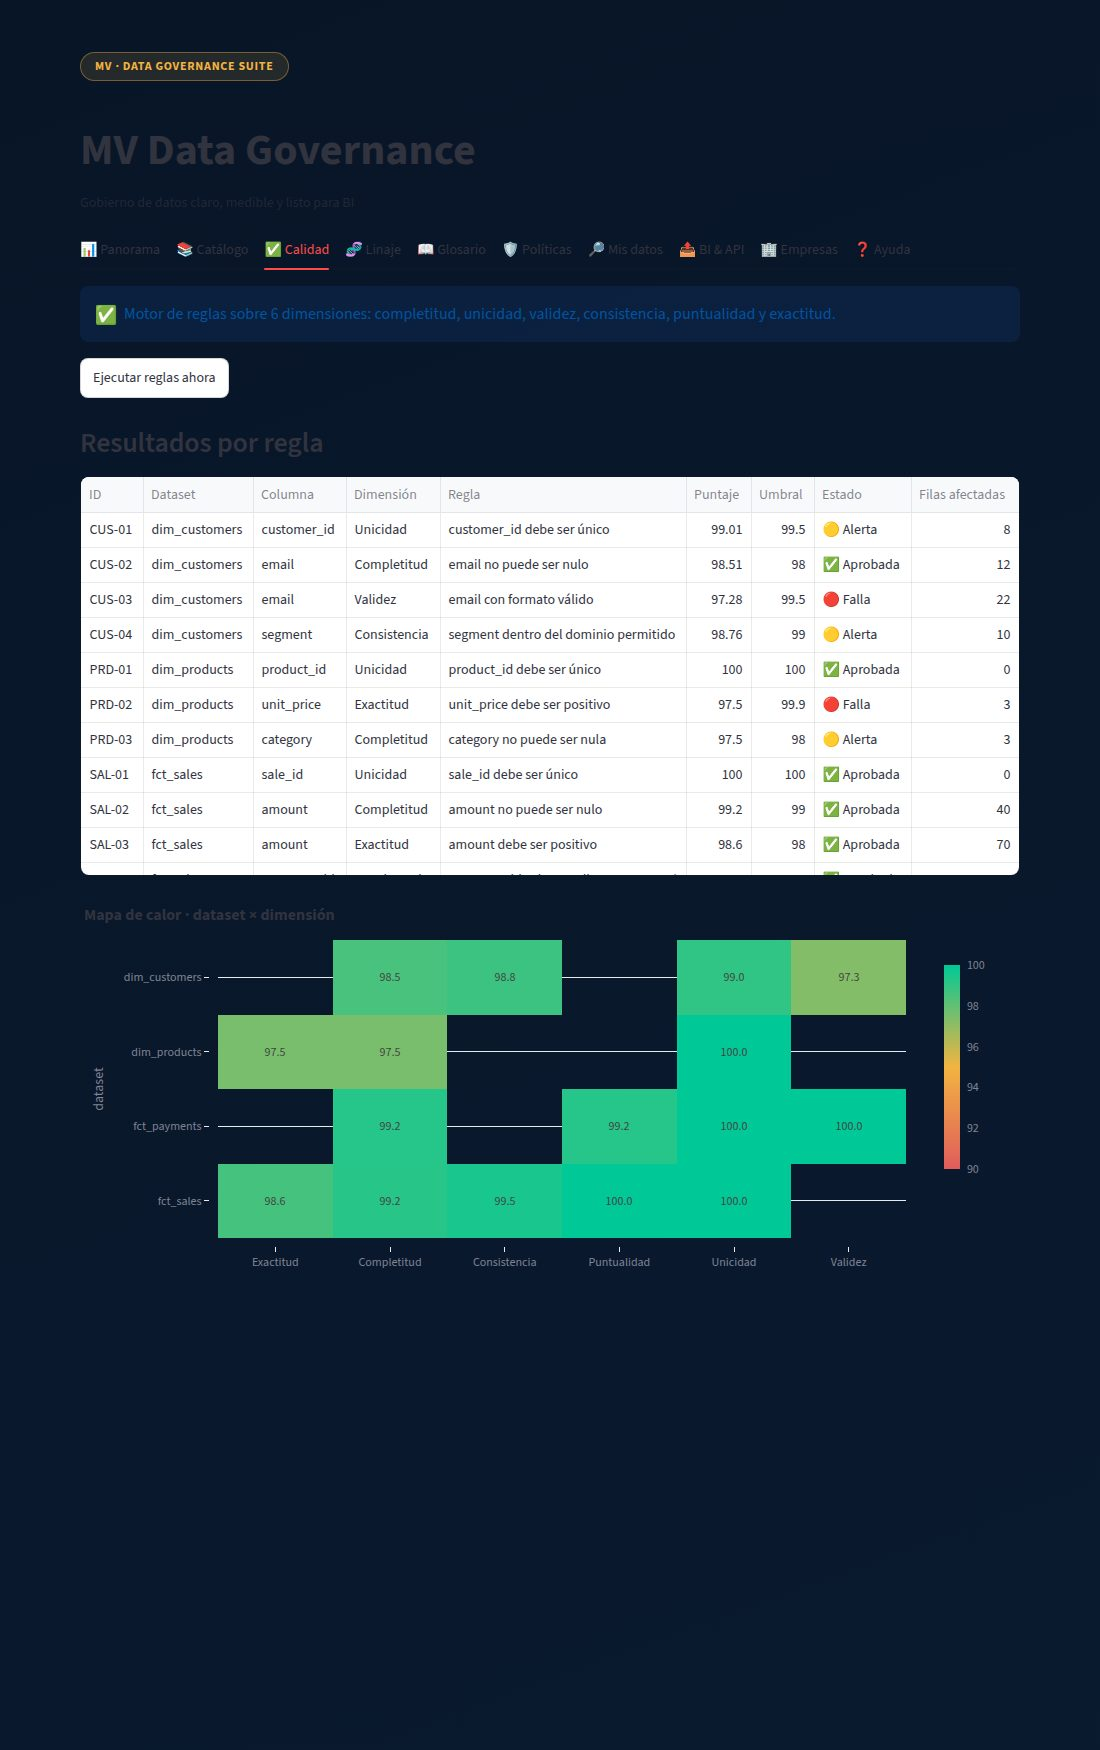
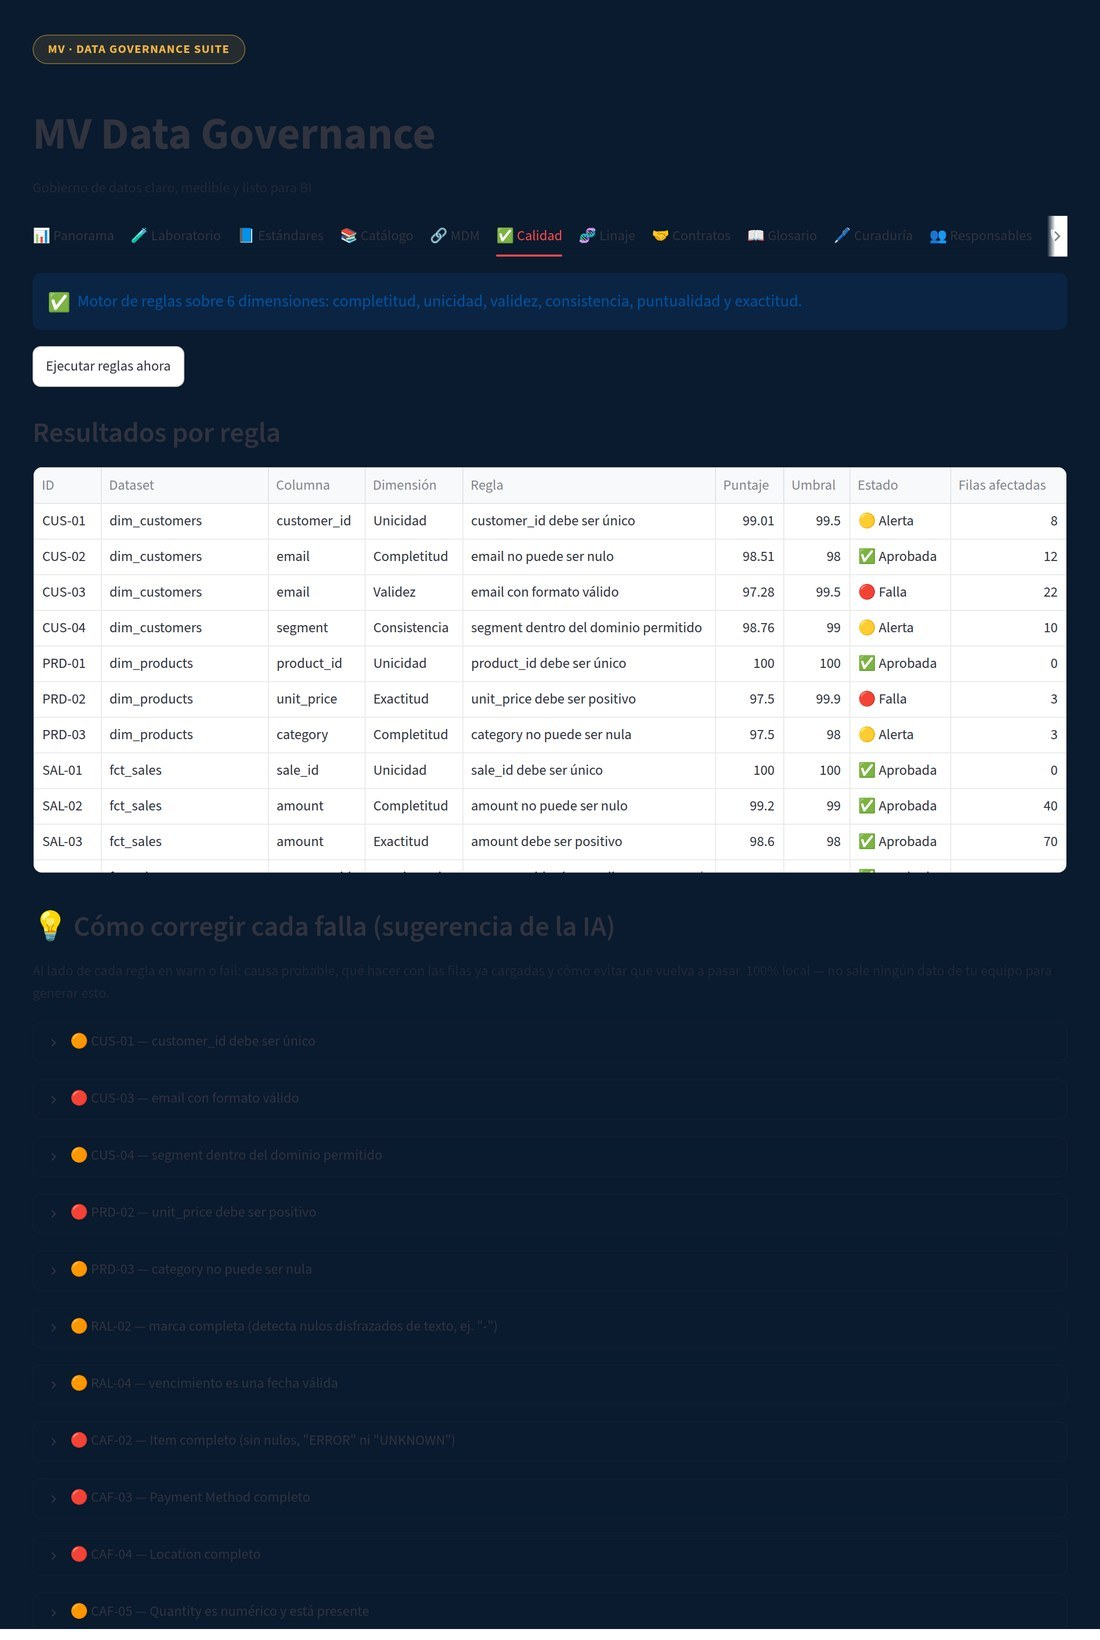
Landing: capturas de tableros por idioma (ES/EN/PT)
Las 4 capturas de la sección "Así se ven tus tableros" estaban fijas en
español y no seguían el idioma de la web. Ahora se sirven capturas reales
del programa en el idioma elegido, igual que el video:

- Regeneradas ES/EN/PT desde la app actual (Panorama, Calidad, Linaje, BI & API)
  con Playwright/Chromium, sin chrome de Streamlit ni sidebar, recortadas a
  un límite limpio y a 1100px de ancho.
- setLang() ahora llama setShots(lang) y swappea src/href de cada figura
  (data-shot) entre la base (ES) y las variantes _en/_pt.
- Leyenda de Calidad actualizada (44 reglas + sugerencias de corrección con IA)
  en los 3 idiomas, acorde a la app actual.

Claude-Session: https://claude.ai/code/session_011FYAxNapppgUrCFf4SBptj

diff --git a/landing/index.html b/landing/index.html
@@ -357,13 +357,13 @@ footer .wrap{display:flex;flex-wrap:wrap;gap:12px 26px;align-items:center;justif
   <p class="lead-d" data-i="sh_lead">Capturas reales del programa — no maquetas. Esto es lo que ve
     tu equipo desde el primer día, en el navegador o en el programa de escritorio.</p>
   <div class="shgrid">
-    <figure class="shot"><a href="img/tab_panorama.jpg" target="_blank" rel="noopener"><img src="img/tab_panorama.jpg" loading="lazy" alt="Panorama"></a>
+    <figure class="shot"><a href="img/tab_panorama.jpg" data-shot="tab_panorama" target="_blank" rel="noopener"><img src="img/tab_panorama.jpg" data-shot="tab_panorama" loading="lazy" alt="Panorama"></a>
       <figcaption data-i="sh_c1">📊 Panorama ejecutivo: KPIs de gobierno, calidad por dominio y evolución de 12 meses</figcaption></figure>
-    <figure class="shot"><a href="img/tab_calidad.jpg" target="_blank" rel="noopener"><img src="img/tab_calidad.jpg" loading="lazy" alt="Calidad"></a>
-      <figcaption data-i="sh_c2">✅ Motor de calidad: 17 reglas con estados, umbrales y mapa de calor dataset × dimensión</figcaption></figure>
-    <figure class="shot"><a href="img/tab_linaje.jpg" target="_blank" rel="noopener"><img src="img/tab_linaje.jpg" loading="lazy" alt="Linaje"></a>
+    <figure class="shot"><a href="img/tab_calidad.jpg" data-shot="tab_calidad" target="_blank" rel="noopener"><img src="img/tab_calidad.jpg" data-shot="tab_calidad" loading="lazy" alt="Calidad"></a>
+      <figcaption data-i="sh_c2">✅ Motor de calidad: 44 reglas con estados, umbrales y sugerencias de corrección con IA</figcaption></figure>
+    <figure class="shot"><a href="img/tab_linaje.jpg" data-shot="tab_linaje" target="_blank" rel="noopener"><img src="img/tab_linaje.jpg" data-shot="tab_linaje" loading="lazy" alt="Linaje"></a>
       <figcaption data-i="sh_c3">🧬 Linaje interactivo: de la fuente al tablero de BI, aguas arriba y aguas abajo</figcaption></figure>
-    <figure class="shot"><a href="img/tab_bi.jpg" target="_blank" rel="noopener"><img src="img/tab_bi.jpg" loading="lazy" alt="BI y API"></a>
+    <figure class="shot"><a href="img/tab_bi.jpg" data-shot="tab_bi" target="_blank" rel="noopener"><img src="img/tab_bi.jpg" data-shot="tab_bi" loading="lazy" alt="BI y API"></a>
       <figcaption data-i="sh_c4">📤 Exportación y API: CSV, Excel, JSON, Parquet y endpoints para tu BI en un clic</figcaption></figure>
   </div>
 </div></section>
@@ -733,7 +733,7 @@ nav_sub:"· Data governance",nav_video:"Video",nav_shots:"Dashboards",nav_platfo
   sh_eye:"The real product",sh_h2:"This is what your dashboards look like",
   sh_lead:"Real screenshots of the program — not mockups. This is what your team sees from day one, in the browser or in the desktop app.",
   sh_c1:"📊 Executive overview: governance KPIs, quality by domain and 12-month trend",
-  sh_c2:"✅ Quality engine: 17 rules with statuses, thresholds and a dataset × dimension heatmap",
+  sh_c2:"✅ Quality engine: 44 rules with statuses, thresholds and AI-assisted fix suggestions",
   sh_c3:"🧬 Interactive lineage: from source to BI dashboard, upstream and downstream",
   sh_c4:"📤 Export & API: CSV, Excel, JSON, Parquet and endpoints for your BI in one click",
   st_eye:"Results",st_h2:"Numbers that convince",
@@ -856,7 +856,7 @@ nav_sub:"· Governança de dados",nav_video:"Vídeo",nav_shots:"Painéis",nav_pl
   sh_eye:"O produto de verdade",sh_h2:"É assim que seus painéis se parecem",
   sh_lead:"Capturas reais do programa — não maquetes. Isto é o que sua equipe vê desde o primeiro dia, no navegador ou no programa de desktop.",
   sh_c1:"📊 Panorama executivo: KPIs de governança, qualidade por domínio e evolução de 12 meses",
-  sh_c2:"✅ Motor de qualidade: 17 regras com status, limites e mapa de calor dataset × dimensão",
+  sh_c2:"✅ Motor de qualidade: 44 regras com status, limites e sugestões de correção com IA",
   sh_c3:"🧬 Linhagem interativa: da fonte ao painel de BI, a montante e a jusante",
   sh_c4:"📤 Exportação e API: CSV, Excel, JSON, Parquet e endpoints para seu BI em um clique",
   st_eye:"Resultados",st_h2:"Números que convencem",
@@ -959,7 +959,17 @@ function setLang(lang){
   document.documentElement.lang=lang;
   try{localStorage.setItem('mvdg_lang',lang);}catch(e){}
   setVideoLang(lang);
+  setShots(lang);
   renderReviews();
+}
+/* Las capturas de los tableros se sirven en el idioma elegido (ES/EN/PT). */
+function setShots(lang){
+  var suf=lang==='es'?'':'_'+lang;
+  document.querySelectorAll('[data-shot]').forEach(function(el){
+    var base=el.getAttribute('data-shot');
+    var url='img/'+base+suf+'.jpg';
+    if(el.tagName==='IMG')el.src=url; else el.href=url;
+  });
 }
 /* La demo narrada se sirve en el idioma elegido (voz en off ES/EN/PT). */
 function setVideoLang(lang){
